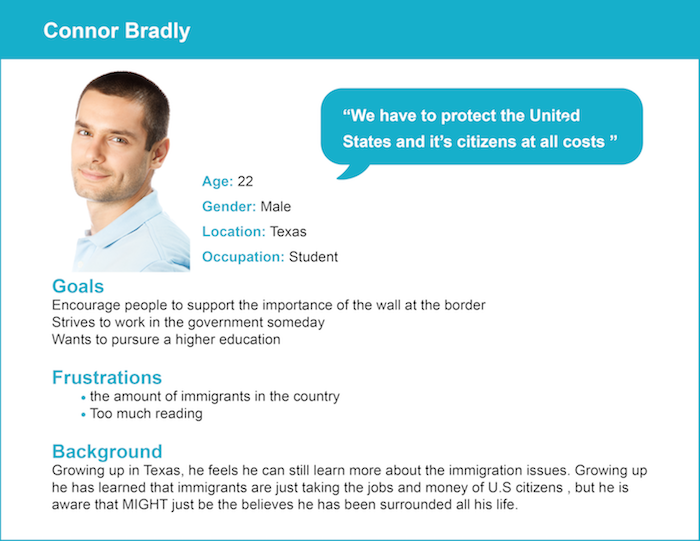
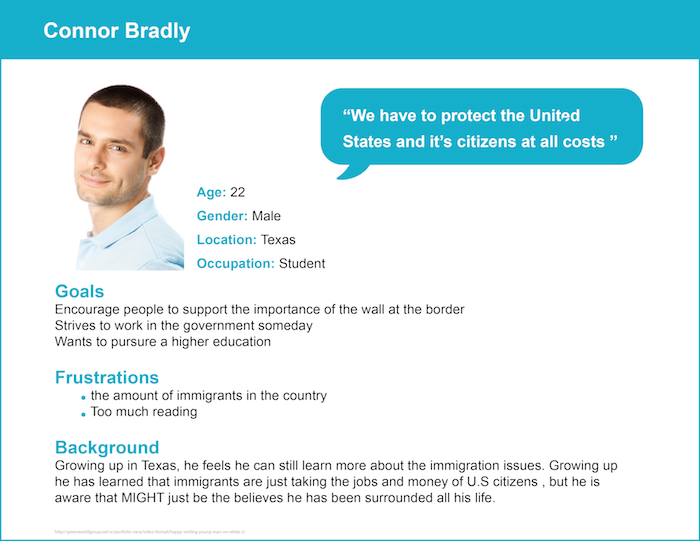
personas

diff --git a/process/research/audience.html b/process/research/audience.html
@@ -24,12 +24,13 @@
   </header>
 
   <section>
-
     <img src="../../images/persona.png" alt="persona">
-    <div <p>http://greenworldgroup.net/sr/portfolio-view/video-format/happy-smiling-young-man-on-white-2/</p>
-    </div>
+  </section>
 
 
+
+  <section>
+    <img src="../../images/persona2.png" alt="persona2">
   </section>
 
   <footer>
